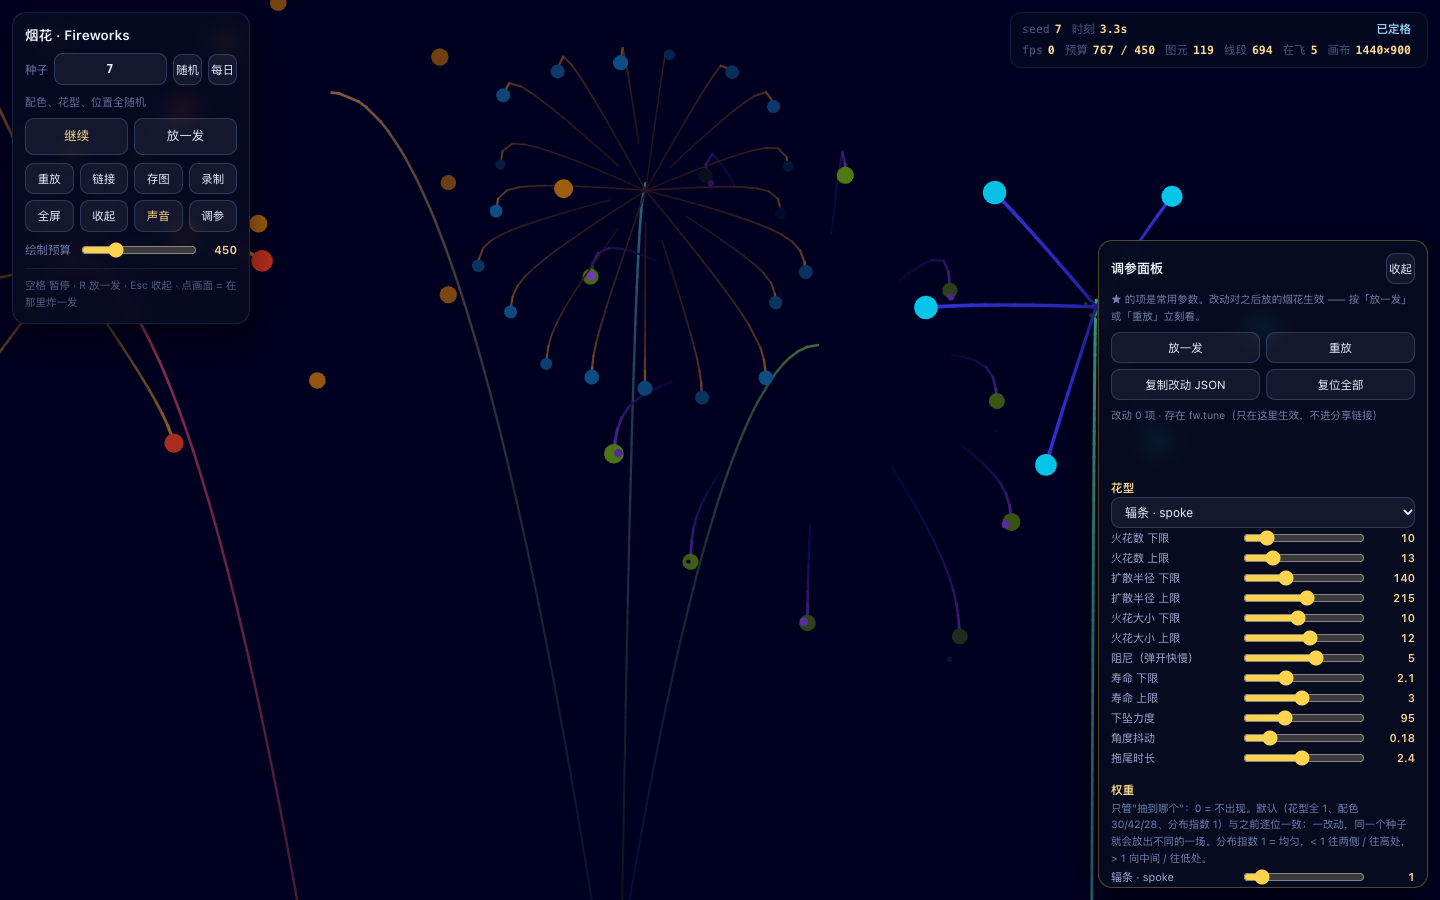
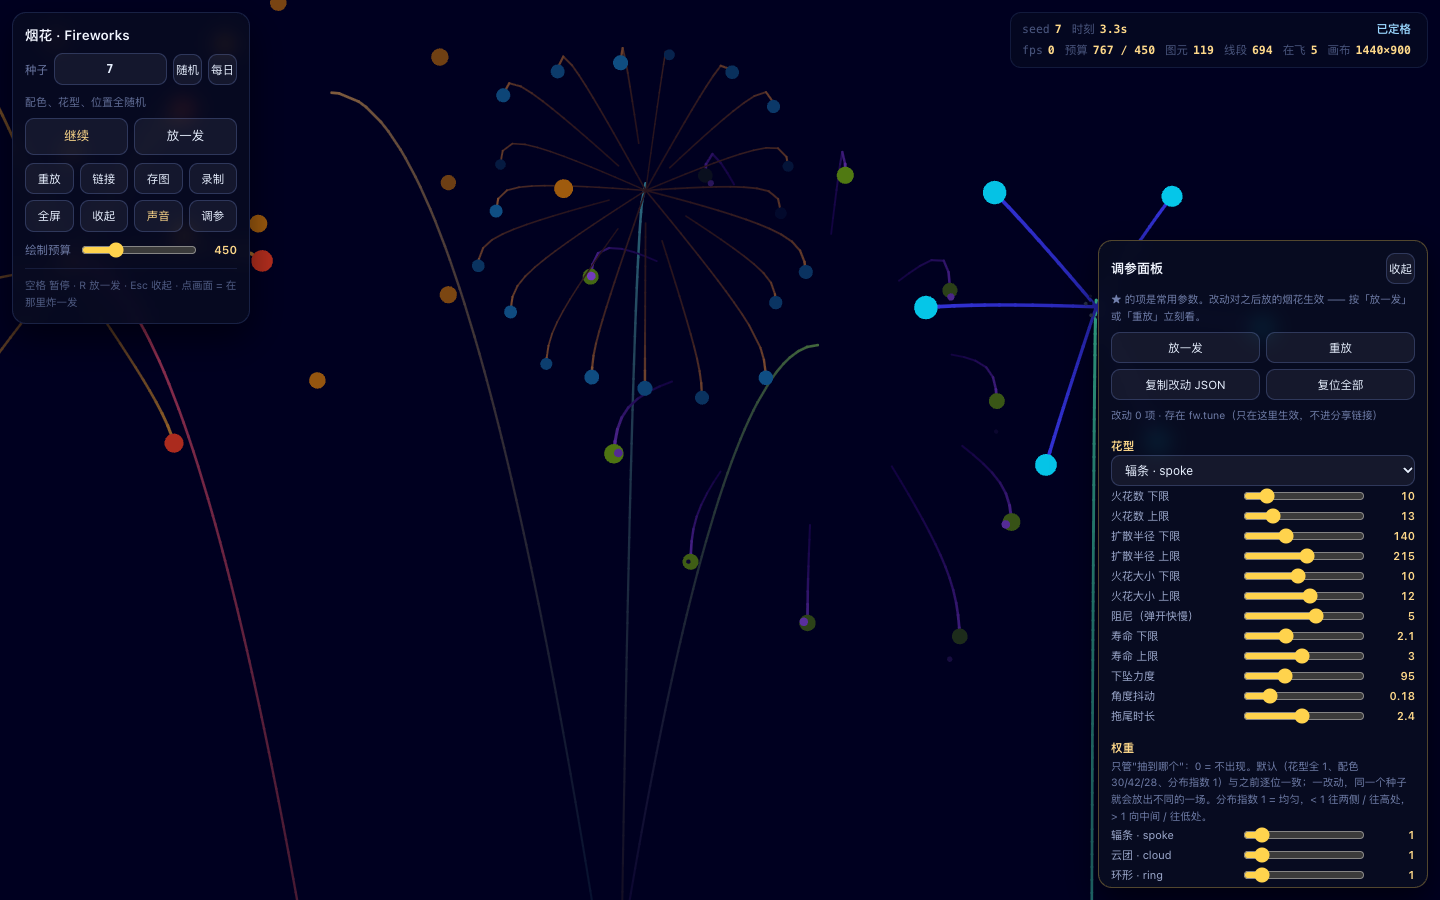
fix(tune): 面板里那条空提示行白占 49px（"可以停航母了"）
`<p class="msg">` 空着的时候仍带着 UA 默认的 1em 上下边距（10.5px × 2），再加上面板自己的
7px 行距，在状态行和「花型」之间撑出一道五十来像素的空白。改成 `margin: 0` +
`:empty { display: none }`：没消息时整行不占位（缝 49px → 7px，面板总高 697 → 648），
有消息时照旧出现、照旧播报（`role=status` / `aria-live=polite` 都在，内容一进来就进布局）。

顺手治掉一个测具抖动：E 段的"不丢音"原来硬等 6 秒再数事件，撞上"这几秒正好没发射"就误报
（同一份代码实测 6 秒里 1~9 个事件都出现过）。改成等到至少 3 个事件或 15 秒超时；断言不变
（事件数 == 发声数），连跑两次全绿。

Changed region(s): [[0.75, 0.4978, 1.0, 0.9956]]

diff --git a/tools/browser_check.js b/tools/browser_check.js
@@ -631,7 +631,10 @@ async function checkA11y(browser) {
     app.show.onEvent = function (ev) { window.__ev[ev.type]++; return orig.apply(this, arguments); };
   });
   const st0 = await page.evaluate(() => FW.app.instance.sound.stats());
-  await page.waitForTimeout(6000);
+  // 等到至少 3 个事件（最多 15 秒）：硬等 6 秒会撞上"这几秒正好没发射"的空档 ——
+  // 那是测具的抖动，不是丢音（实测同一份代码 6 秒里 1~9 个事件都出现过）。
+  await page.waitForFunction(() => (window.__ev.launch + window.__ev.burst) >= 3, null,
+                             { timeout: 15000 }).catch(() => {});
   const noDrop = await page.evaluate(() => ({
     ev: window.__ev,
     stats: FW.app.instance.sound.stats()
@@ -639,11 +642,11 @@ async function checkA11y(browser) {
   // 比较**增量**：stats 是从页面加载起累计的，不能直接跟事件数比
   const played = (noDrop.stats.launches - st0.launches) + (noDrop.stats.bursts - st0.bursts);
   const got = noDrop.ev.launch + noDrop.ev.burst;
-  if (!(got >= 3)) problems.push(`6 秒里只收到 ${got} 个发声事件，测不出丢音`);
+  if (!(got >= 3)) problems.push(`15 秒里只收到 ${got} 个发声事件，测不出丢音`);
   else if (played !== got) {
     problems.push(`有事件被丢音：事件 ${got}（${JSON.stringify(noDrop.ev)}）只发了 ${played} 声`);
   }
-  steps.push(`不丢音：6 秒 ${got} 个事件 / ${played} 声（压小 ${noDrop.stats.squeezed} 次）`);
+  steps.push(`不丢音：${got} 个事件 / ${played} 声（压小 ${noDrop.stats.squeezed} 次）`);
 
   // E2) 可访问性标记：地标、label、canvas 名字、播报区
   const mk = await page.evaluate(() => ({

diff --git a/dist/fireworks.html b/dist/fireworks.html
@@ -3200,7 +3200,9 @@ setTimeout(function () {
     'font:10.5px/1.5 ui-monospace,SFMono-Regular,Menlo,monospace;color:#e8f0ff;outline:none;',
     'background:rgba(255,255,255,.05);border:1px solid rgba(140,170,255,.22)}',
     '#tune details summary{cursor:pointer;font-size:11.5px;color:#ffd98a;margin-top:4px}',
-    '#tune .msg{min-height:14px;font-size:10.5px;line-height:1.5;color:#9ad7ff}',
+    '#tune .msg{margin:0;font-size:10.5px;line-height:1.5;color:#9ad7ff}',
+    // 消息行没内容时整行收掉：<p> 的 1em 上下边距 + 面板的 gap 会白占四十多像素
+    '#tune .msg:empty{display:none}',
     '@media (max-width:740px){#tune{width:calc(100vw - 24px)}}'
   ].join('');
 

diff --git a/docs/index.html b/docs/index.html
@@ -3200,7 +3200,9 @@ setTimeout(function () {
     'font:10.5px/1.5 ui-monospace,SFMono-Regular,Menlo,monospace;color:#e8f0ff;outline:none;',
     'background:rgba(255,255,255,.05);border:1px solid rgba(140,170,255,.22)}',
     '#tune details summary{cursor:pointer;font-size:11.5px;color:#ffd98a;margin-top:4px}',
-    '#tune .msg{min-height:14px;font-size:10.5px;line-height:1.5;color:#9ad7ff}',
+    '#tune .msg{margin:0;font-size:10.5px;line-height:1.5;color:#9ad7ff}',
+    // 消息行没内容时整行收掉：<p> 的 1em 上下边距 + 面板的 gap 会白占四十多像素
+    '#tune .msg:empty{display:none}',
     '@media (max-width:740px){#tune{width:calc(100vw - 24px)}}'
   ].join('');
 

diff --git a/src/tune_ui.js b/src/tune_ui.js
@@ -45,7 +45,9 @@
     'font:10.5px/1.5 ui-monospace,SFMono-Regular,Menlo,monospace;color:#e8f0ff;outline:none;',
     'background:rgba(255,255,255,.05);border:1px solid rgba(140,170,255,.22)}',
     '#tune details summary{cursor:pointer;font-size:11.5px;color:#ffd98a;margin-top:4px}',
-    '#tune .msg{min-height:14px;font-size:10.5px;line-height:1.5;color:#9ad7ff}',
+    '#tune .msg{margin:0;font-size:10.5px;line-height:1.5;color:#9ad7ff}',
+    // 消息行没内容时整行收掉：<p> 的 1em 上下边距 + 面板的 gap 会白占四十多像素
+    '#tune .msg:empty{display:none}',
     '@media (max-width:740px){#tune{width:calc(100vw - 24px)}}'
   ].join('');
 
